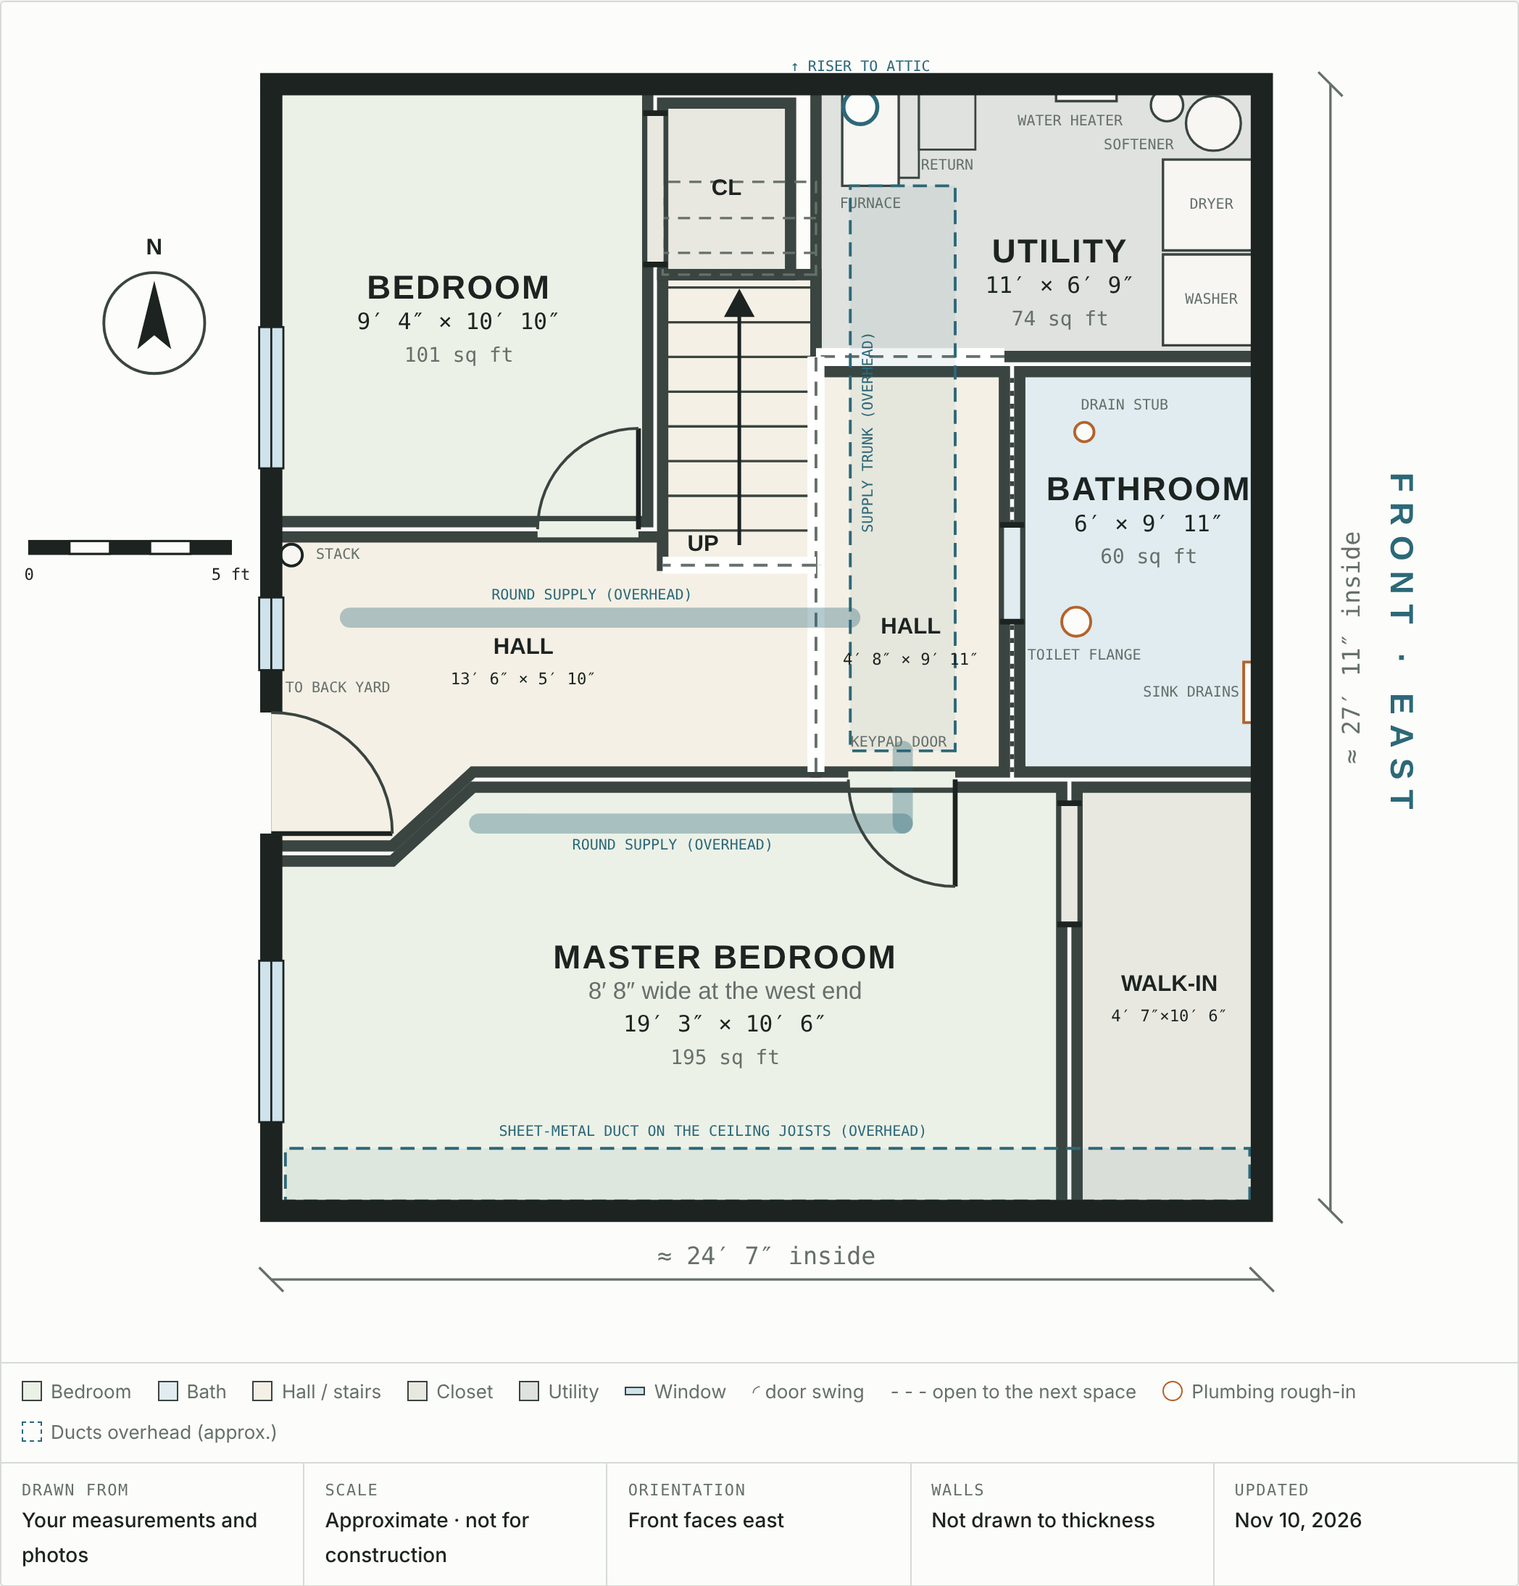
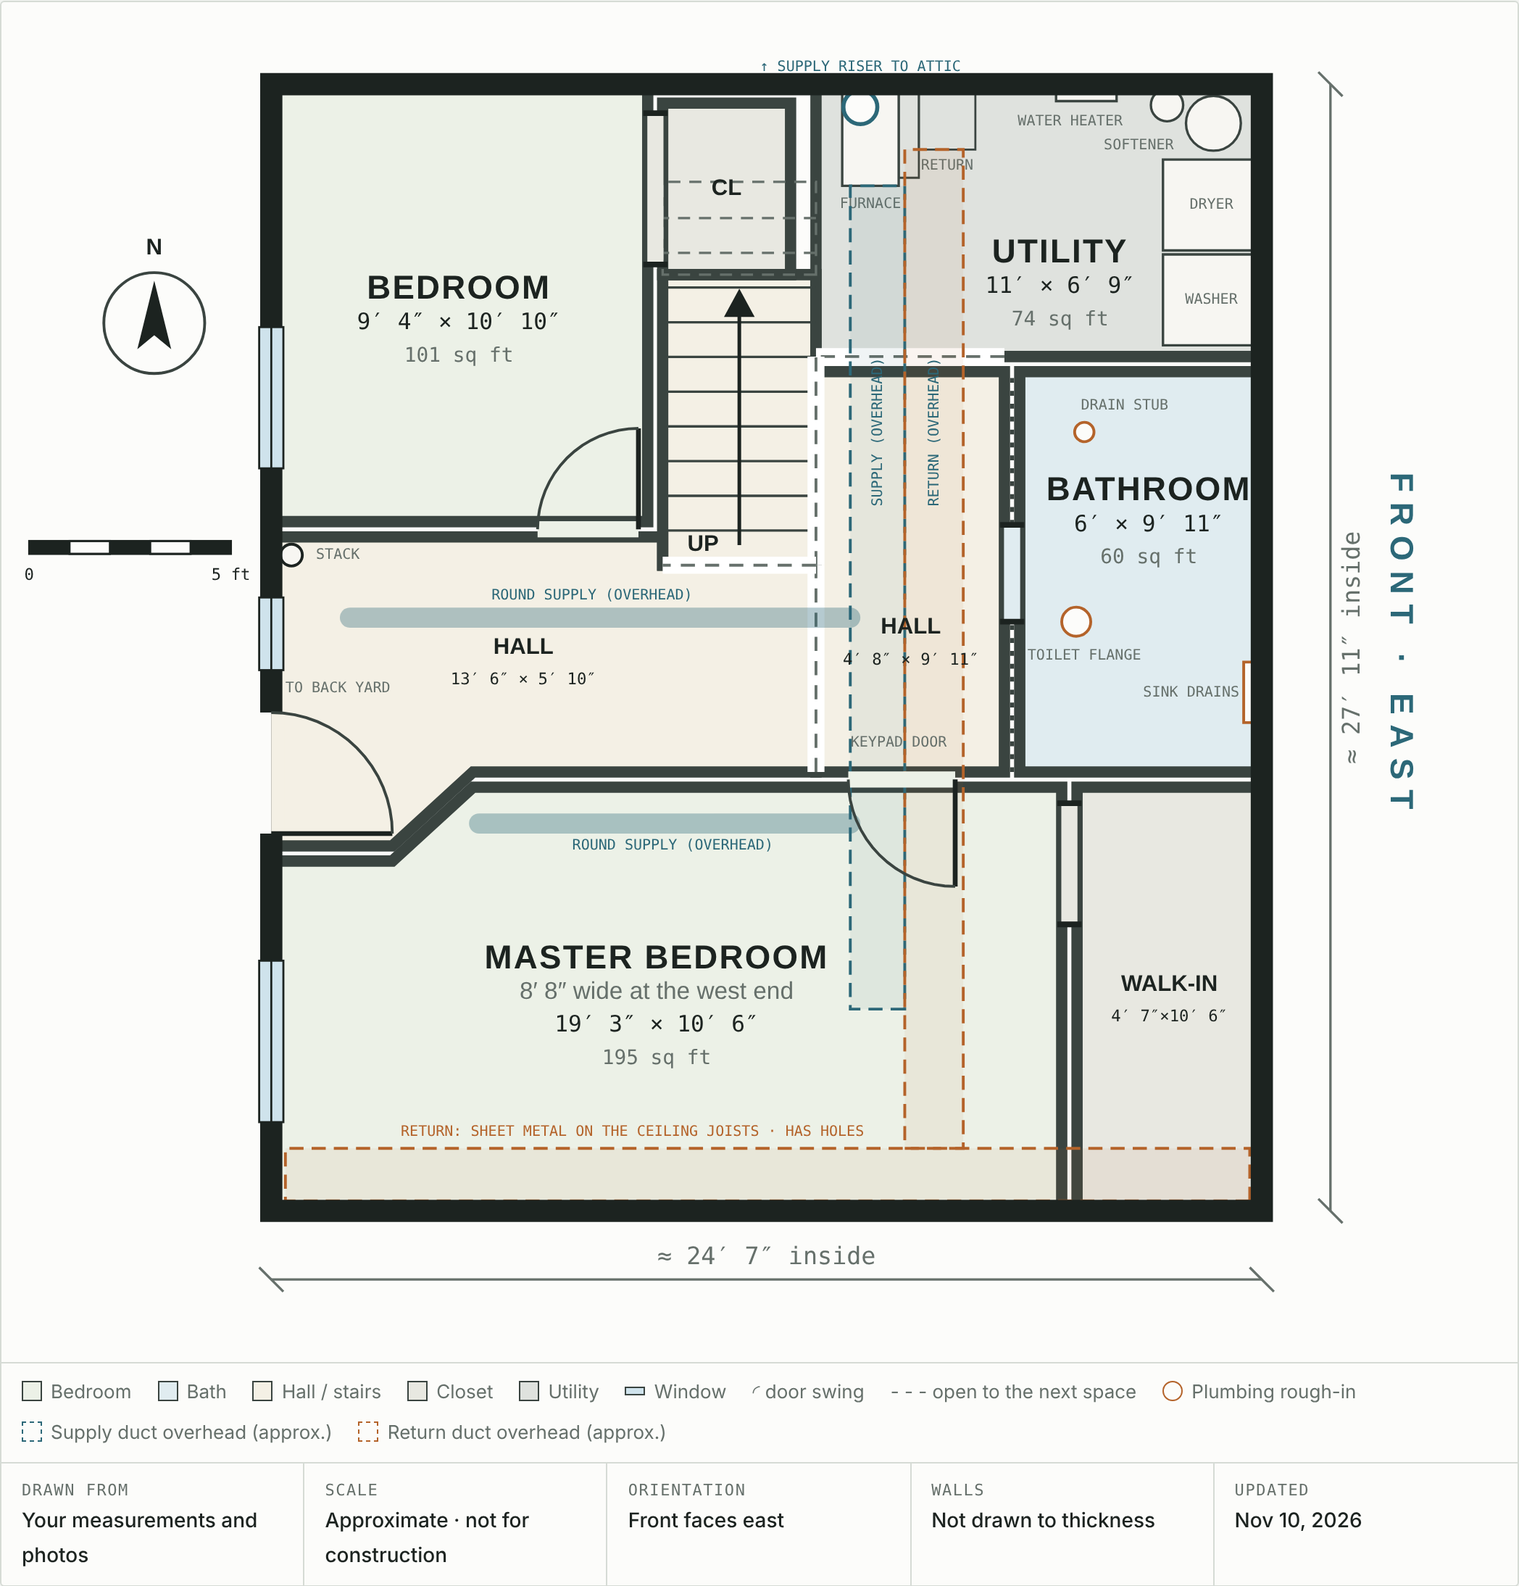
Basement: supply and return runs, leaky returns
The run on the furnace's west side is the supply and the east side is the
return; both go south over the hall into the master. The sheet-metal ducts
on the ceiling joists along the south wall are returns with holes in them.
Draws supply and return separately, adds a safety item to seal the returns
and keep floor-stripping dust out of them.

Claude-Session: https://claude.ai/code/session_014gWw3y8aufUYyZbL2xmfvZ

diff --git a/floor-plan/basement/index.html b/floor-plan/basement/index.html
@@ -137,6 +137,8 @@ tr.sub td{color:var(--muted);border-bottom:0}
 #plan .duct-r{stroke:var(--accent);stroke-width:.5;stroke-opacity:.35;stroke-linecap:round}
 #plan .riser{fill:var(--sheet);stroke:var(--accent);stroke-width:.1}
 #plan .t-duct{font-family:var(--mono);font-size:.36px;fill:var(--accent)}
+#plan .duct-ret{fill:var(--warn);fill-opacity:.07;stroke:var(--warn);stroke-width:.07;stroke-dasharray:.35 .2}
+#plan .t-ret{font-family:var(--mono);font-size:.36px;fill:var(--warn)}
 </style>
 </head>
 <body>
@@ -162,7 +164,8 @@ tr.sub td{color:var(--muted);border-bottom:0}
       <span>◜ door swing</span>
       <span>- - - open to the next space</span>
       <span><i style="border-radius:50%;border-color:var(--warn)"></i>Plumbing rough-in</span>
-      <span><i style="border:1px dashed var(--accent);background:transparent"></i>Ducts overhead (approx.)</span>
+      <span><i style="border:1px dashed var(--accent);background:transparent"></i>Supply duct overhead (approx.)</span>
+      <span><i style="border:1px dashed var(--warn);background:transparent"></i>Return duct overhead (approx.)</span>
     </div>
     <div class="titleblock">
       <div><span>Drawn from</span><strong>Your measurements and photos</strong></div>
@@ -196,8 +199,10 @@ tr.sub td{color:var(--muted);border-bottom:0}
           <p>The furnace and the wall-hung water heater both vent through plastic pipe. If nothing else uses the metal flue in the chase beside bedroom 2, the chase can come out rather than be boxed in. Check what the metal pipe rising behind the dryer connects to.</p></li>
         <li class="ask"><h3>Placed from photos</h3>
           <p>The washer and dryer are on the east wall and the furnace and softener on the north wall, as you described; their exact spots along those walls, the back door, the windows and the bathroom rough-in are placed from the photos. The bathroom's walls are open framing, and it has no door yet; the opening is drawn where the photo shows a wider gap.</p></li>
+<li class="ask"><h3>Seal the return ducts</h3>
+          <p>The returns made of sheet metal on the ceiling joists have holes somewhere, so they pull in basement air and dust. Seal them, and while floors are being stripped down here, turn the furnace fan off or cover the returns so dust from the old adhesive isn't drawn through the house.</p></li>
         <li class="ok"><h3>Heating ducts</h3>
-          <p>The furnace's supply goes straight up from the furnace to the attic: that's the exposed round duct in the front room's northwest corner upstairs. The main supply trunk runs south along the ceiling over the hall beside the bathroom to the master bedroom, with round branches running west along the long hall and through the master. Along the south wall, sheet metal nailed across the ceiling joists forms a duct from the walk-in closet through the master. The return comes down beside the furnace. Branch routes are approximate, from the photos.</p></li>
+          <p>A supply run from the furnace's west side and a return run from its east side go south side by side along the ceiling over the hall beside the bathroom and into the master bedroom. The supply also rises straight up to the attic (the exposed round duct in the front room's northwest corner upstairs) and sends round branches west along the long hall and through the master. Along the south wall, sheet metal across the ceiling joists forms the returns. How the runs end inside the master is approximate, from the photos.</p></li>
         <li class="ok"><h3>What lines up</h3>
           <p>Front to back on the front side: master 10′ 6″ + bathroom 9′ 11″ + utility 6′ 9″ = 27′ 2″. On the back side: master 10′ 6″ + long hall 5′ 10″ + bedroom 10′ 10″ = 27′ 2″. Across, the hall side comes to about 24′ 6″ and the master side to about 24′ 3″. With walls, that's about 24′ 7″ × 27′ 11″ inside, which fits under the 25′ × 28′ 9″ main floor.</p></li>
       </ul>
@@ -214,7 +219,7 @@ tr.sub td{color:var(--muted);border-bottom:0}
   // d = your measurement in inches [east-west, north-south].
   const ROOMS = [
     {id:'mcl',    name:'Master walk-in closet', short:'Walk-in', type:'store', g:{x:0,y:0,w:4.58,h:10.5}, d:[55,126], mode:'small'},
-    {id:'master', name:'Master bedroom', sub:'8′ 8″ wide at the west end', type:'bed', poly:[[4.96,0],[24.55,0],[24.55,8.67],[21.55,8.67],[19.55,10.5],[4.96,10.5]], d:[231,126], a:195, mode:'full', lab:[13.3,5.0]},
+    {id:'master', name:'Master bedroom', sub:'8′ 8″ wide at the west end', type:'bed', poly:[[4.96,0],[24.55,0],[24.55,8.67],[21.55,8.67],[19.55,10.5],[4.96,10.5]], d:[231,126], a:195, mode:'full', lab:[15.0,5.0]},
     {id:'bath',   name:'Bathroom', type:'wet', g:{x:0,y:10.875,w:6,h:9.92}, d:[72,119], mode:'full', lab:[2.8,17.0]},
     {id:'hall1',  name:'Hall', type:'circ', g:{x:6.38,y:10.875,w:4.67,h:9.92}, d:[56,119], mode:'hall', lab:[8.7,13.9]},
     {id:'hall2',  name:'Long hall', type:'circ', poly:[[11.05,10.875],[19.55,10.875],[21.55,9.045],[24.55,9.045],[24.55,16.7],[14.85,16.7],[14.85,16.0],[11.05,16.0]], d:[162,70], mode:'hall', lab:[18.3,13.4]},
@@ -309,12 +314,16 @@ tr.sub td{color:var(--muted);border-bottom:0}
     s += rectF(7.1, 8.5, 26.3, 27.9, 'fix2') + rectF(8.5, 9.0, 25.6, 27.9, 'fix2') + rectF(9.0, 10.4, 25.4, 27.9, 'fix') + tiny(9.7, 24.95, 'FURNACE') + tiny(7.8, 25.9, 'RETURN');
     // heating ducts overhead (approximate, from the photos): the riser straight up from the furnace to the attic,
     // the main supply trunk south over the hall, and round branches west along the long hall and through the master
+    const dtr = (x, y, t) => text(x, y, t, 't-ret', 'pointer-events="none"');
     const dt = (x, y, t, rot) => { const tx = X(x), ty = Y(y); return `<text x="${n(tx)}" y="${n(ty)}" text-anchor="middle" dominant-baseline="middle" class="t-duct" pointer-events="none"${rot ? ` transform="rotate(-90 ${n(tx)} ${n(ty)})"` : ''}>${t}</text>`; };
-    s += rectF(7.6, 10.2, 11.4, 25.4, 'duct') + dt(9.75, 19.3, 'SUPPLY TRUNK (OVERHEAD)', true);
+    // supply (furnace's west side) and return (east side) run side by side south over the hall into the master
+    s += rectF(8.85, 10.2, 5.0, 25.4, 'duct') + dt(9.52, 19.3, 'SUPPLY (OVERHEAD)', true);
+    s += rectF(7.4, 8.85, 1.55, 26.3, 'duct-ret') + dt(8.12, 19.3, 'RETURN (OVERHEAD)', true);
     s += line([10.2, 14.7],[22.6, 14.7],'duct-r') + dt(16.6, 15.25, 'ROUND SUPPLY (OVERHEAD)');
-    s += line([8.9, 11.4],[8.9, 9.6],'duct-r') + line([8.9, 9.6],[19.4, 9.6],'duct-r') + dt(14.6, 9.05, 'ROUND SUPPLY (OVERHEAD)');
-    s += circF(9.95, 27.35, 0.42, 'riser') + dt(9.95, 28.35, '↑ RISER TO ATTIC');
-    s += rectF(0.3, 24.2, 0.25, 1.55, 'duct') + dt(13.6, 1.95, 'SHEET-METAL DUCT ON THE CEILING JOISTS (OVERHEAD)');
+    s += line([10.2, 9.6],[19.4, 9.6],'duct-r') + dt(14.6, 9.05, 'ROUND SUPPLY (OVERHEAD)');
+    s += circF(9.95, 27.35, 0.42, 'riser') + dt(9.95, 28.35, '↑ SUPPLY RISER TO ATTIC');
+    // returns: sheet metal across the ceiling joists along the south wall; they have holes somewhere
+    s += rectF(0.3, 24.2, 0.25, 1.55, 'duct-ret') + dtr(15.6, 1.95, 'RETURN: SHEET METAL ON THE CEILING JOISTS · HAS HOLES');
     // main drain stack, straight down from the upstairs bathroom
     s += circF(24.05, 16.25, 0.27, 'stack') + tiny(22.9, 16.25, 'STACK');
     // bathroom's west wall is open framing for now

diff --git a/existing-conditions.md b/existing-conditions.md
@@ -312,7 +312,7 @@ Measured and photographed November 9–10, 2026. The [basement plan](floor-plan/
 | **Utility area** *(photos 19, 20, 31)* | Along the **north wall**: a **high-efficiency gas furnace** vented with two plastic pipes, with its supply plenum; a **wall-hung tankless water heater**; a whole-house filter; and a water softener with a brine tank. A condensate pump sits on the floor. The **washer and dryer** are on the **east (front) wall**, with a laundry standpipe, and a metal pipe rises behind the dryer into the joists. Open studs on the concrete walls, open joists, and a concrete floor with old tile-adhesive trowel marks and patches. |
 | **Halls** *(photos 29–33)* | Concrete floor with patches and some old adhesive. The long hall ends at the back (west) wall with a **door to the back yard**, a small hopper window that looks out under the deck, and the **main drain stack**, which comes straight down from the upstairs bathroom. A round metal duct and a galvanized supply trunk run along the ceiling. There's a wood post under a beam near the bottom of the stairs, and one framed wall has a plywood patch. |
 | **Ceilings** | Open joists everywhere except the bedroom, with exposed wiring. |
-| **Heating ducts** *(photos 34–41)* | The supply riser goes straight up from the furnace to the attic; it's the exposed round duct in the front room's northwest corner upstairs. The main supply trunk runs south along the ceiling over the hall beside the bathroom to the master bedroom, with round branches west along the long hall and through the master. Along the south wall, sheet metal nailed across the ceiling joists forms a duct running from the walk-in closet through the master. The return comes down beside the furnace, through a media filter cabinet. |
+| **Heating ducts** *(photos 34–41)* | The supply riser goes straight up from the furnace to the attic; it's the exposed round duct in the front room's northwest corner upstairs. A supply run from the furnace's west side and a return run from its east side go south side by side along the ceiling over the hall beside the bathroom and into the master bedroom. Round supply branches run west along the long hall and through the master. Along the south wall, sheet metal nailed across the ceiling joists forms the **returns**, from the walk-in closet through the master; **they have holes somewhere**. The return comes down to the furnace through a media filter cabinet. |
 
 **[Attention]**
 
@@ -367,7 +367,8 @@ Measured and photographed November 9–10, 2026. The [basement plan](floor-plan/
 | Floor registers | Front room (west wall by the hall door), green room (by the door; southeast corner), bedroom 2 (southwest corner), kitchen (stair half wall) | From the basement furnace. |
 | Ceiling supply registers | Front room (near the front wall), bedroom 2, dining (above the slider) | Probably fed by the corner duct through ducts in the attic. |
 | Exposed round duct | Front room, northwest corner, floor to ceiling | **Live (confirmed).** It's the riser that goes **straight up from the furnace** in the basement to the attic, feeding the ceiling registers. |
-| Main supply trunk | Basement ceiling, over the hall beside the bathroom | Rectangular, running south from the furnace to the master bedroom's north wall. Round branches run west along the long hall and through the master. *(photos 34–41)* |
+| Supply and return runs | Basement ceiling, over the hall beside the bathroom | Side by side: the supply from the furnace's west side, the return from its east side. Both run south into the master bedroom. Round supply branches run west along the long hall and through the master. *(photos 34–41)* |
+| Return ducts on the ceiling joists | Basement, along the south wall (walk-in closet and master) | Sheet metal nailed across the joists. **They have holes somewhere**, so they pull in basement air and dust. |
 | Return and filter | Basement, beside the furnace | A return drop on the furnace's east side, with a media filter cabinet between them. |
 | Thermostat | Front room, west wall by the hall door | |
 | Electric baseboard heaters, **still installed** | Dining, under both north windows (2) | Remove them and cap the circuits. |
@@ -416,16 +417,17 @@ Measured and photographed November 9–10, 2026. The [basement plan](floor-plan/
 2. **Gas flue clearance** in bedroom 2's open wall. Confirm the clearances and wiring before closing it. *(Safety)*
 3. **Open electrical panel bay** at the top of the stairs. Finish the opening properly and keep the access clear. *(Safety)*
 4. **Garage fire separation.** Put fire-rated drywall on the walls shared with the house, close off any attic opening, and make sure the door to the house is solid or fire-rated and closes on its own. *(Safety)*
-5. **Basement bedroom windows.** Measure them for climb-out (egress) size before either room is used as a bedroom. *(Safety)*
-6. **Garage south wall stains.** Identify them (soot, mold or paint).
-7. **Bathroom tub surround.** It's failing, so check for water damage behind it and around the window. Replace the surround and waterproof the window.
-8. **Bathroom exhaust fan.** None seen; add one vented outside.
-9. **Hall ceiling hole.** Check for a leak (roof or flue pipe) before patching.
-10. **Baseboard heaters.** Remove the two in the dining room, and make the old junction boxes in bedroom 2 and the front room safe.
-11. **Exposed duct** in the front room. It's live, so get an HVAC quote to reroute it (into a wall or closet, or replace it with floor registers), or box it in. Decide before the new floors go in.
-12. **Open walls.** Close the bath wall by the door, bedroom 2's east wall and the panel bay.
-13. **Exposed garage wiring.** Protect it where it could be bumped.
-14. **Drywall repair** throughout: shelf and anchor holes, damaged patches, the marker in the dining room.
+5. **Leaky return ducts** in the basement. Seal the holes in the sheet-metal returns on the ceiling joists, and while the basement floors are being stripped, turn the furnace fan off or cover the returns so the dust isn't drawn through the house. *(Safety)*
+6. **Basement bedroom windows.** Measure them for climb-out (egress) size before either room is used as a bedroom. *(Safety)*
+7. **Garage south wall stains.** Identify them (soot, mold or paint).
+8. **Bathroom tub surround.** It's failing, so check for water damage behind it and around the window. Replace the surround and waterproof the window.
+9. **Bathroom exhaust fan.** None seen; add one vented outside.
+10. **Hall ceiling hole.** Check for a leak (roof or flue pipe) before patching.
+11. **Baseboard heaters.** Remove the two in the dining room, and make the old junction boxes in bedroom 2 and the front room safe.
+12. **Exposed duct** in the front room. It's live, so get an HVAC quote to reroute it (into a wall or closet, or replace it with floor registers), or box it in. Decide before the new floors go in.
+13. **Open walls.** Close the bath wall by the door, bedroom 2's east wall and the panel bay.
+14. **Exposed garage wiring.** Protect it where it could be bumped.
+15. **Drywall repair** throughout: shelf and anchor holes, damaged patches, the marker in the dining room.
 
 ---
 

diff --git a/photos/README.md b/photos/README.md
@@ -384,7 +384,7 @@ The basement photos were taken November 9–10, 2026. Photos 34–41 show the he
 **Camera:** in the utility area, looking north.
 
 - The furnace, with its two plastic vent pipes, a media filter cabinet beside it, and the tall return drop.
-- **Overhead:** the wide supply trunk, and the round riser rising at the top left. The riser goes straight up to the attic; it's the exposed duct in the front room upstairs.
+- **Overhead:** the supply leaves the furnace's left (west) side and the return comes in on its right (east) side; both run south toward the camera. The round riser at the top left goes straight up to the attic; it's the exposed duct in the front room upstairs.
 - **Right:** the wall-hung tankless water heater, the whole-house filter, the softener's brine tank and the condensate pump.
 - **Left:** a drywalled wall with a framed opening near the floor.
 
@@ -393,7 +393,7 @@ The basement photos were taken November 9–10, 2026. Photos 34–41 show the he
 
 **Camera:** in the hall beside the bathroom, looking up and south toward the master bedroom's door.
 
-- The main supply trunk runs along the ceiling, with a rectangular takeoff on its underside.
+- The supply and return runs go side by side along the ceiling, with the dark seam between them, heading south into the master bedroom. There's a rectangular takeoff on the underside.
 
 ### 36 · Duct by the post
 ![Duct by the post](36-basement-duct-by-the-post.jpg)
@@ -407,21 +407,21 @@ The basement photos were taken November 9–10, 2026. Photos 34–41 show the he
 
 **Camera:** in the walk-in closet, looking up into the corner by the south wall.
 
-- Sheet metal is nailed across the ceiling joists along the south wall, turning the joist bay into a duct. Foil insulation lines the next bay, and a black flexible line crosses it.
+- Sheet metal is nailed across the ceiling joists along the south wall, turning the joist bay into a return duct. Foil insulation lines the next bay, and a black flexible line crosses it.
 
 ### 38 · Ceiling duct at the walk-in closet's south wall
 ![Ceiling duct at the walk-in closet's south wall](38-basement-duct-along-outside-wall-2.jpg)
 
 **Camera:** in the walk-in closet, looking up at the south end.
 
-- The same sheet-metal duct on the ceiling along the insulated south wall, between the closet's drywall walls.
+- The same sheet-metal return on the ceiling along the insulated south wall, between the closet's drywall walls.
 
 ### 39 · Ceiling duct in the master bedroom
 ![Ceiling duct in the master bedroom](39-basement-duct-beside-beam.jpg)
 
 **Camera:** in the master bedroom, looking up toward the west window.
 
-- The sheet-metal duct continues along the ceiling. The round supply duct runs beside it, and spray foam seals the rim joist above the window.
+- The sheet-metal return continues along the ceiling. The round supply duct runs beside it, and spray foam seals the rim joist above the window.
 
 ### 40 · Master bedroom ceiling
 ![Master bedroom ceiling](40-basement-master-ceiling-round-duct.jpg)

diff --git a/floor-plan/basement/README.md b/floor-plan/basement/README.md
@@ -24,7 +24,7 @@ The basement as it is today, before renovation. It's drawn from the room measure
 - **Windows:** three on the west wall, one each for the master bedroom, the long hall and the bedroom.
 - **Plumbing rough-in:** the bathroom's sink drains, toilet flange and drain stub, and the main stack under the upstairs bathroom.
 - **Utility:** the furnace, filter and return, the wall-hung water heater and the softener along the north wall; the washer and dryer on the east wall.
-- **Heating ducts overhead** (approximate, from the photos): the riser straight up from the furnace to the attic, the main supply trunk south over the hall, round branches west along the long hall and through the master, and a sheet-metal duct on the ceiling joists along the south wall.
+- **Heating ducts overhead** (approximate, from the photos): the supply riser straight up from the furnace to the attic; the supply and return runs side by side south over the hall into the master; round supply branches west along the long hall and through the master; and the returns made of sheet metal on the ceiling joists along the south wall, which have holes somewhere.
 - **Open to the next space** (dashed): the utility area, the two halls, and the open side of the stairs.
 
 The room sizes are your measurements. The doors, windows, rough-in and equipment are placed from the photos, so their positions are approximate.
